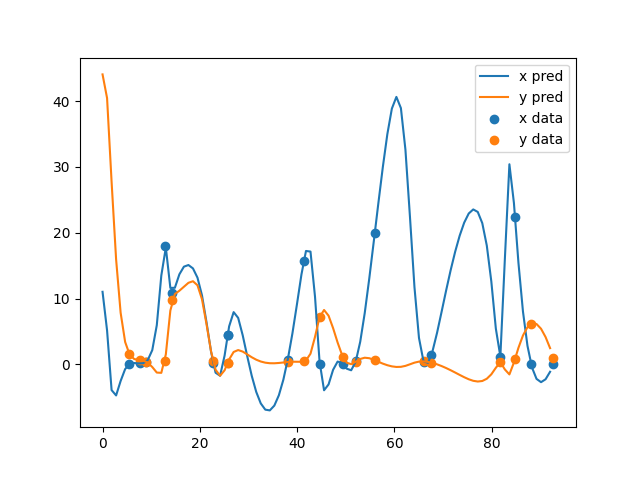
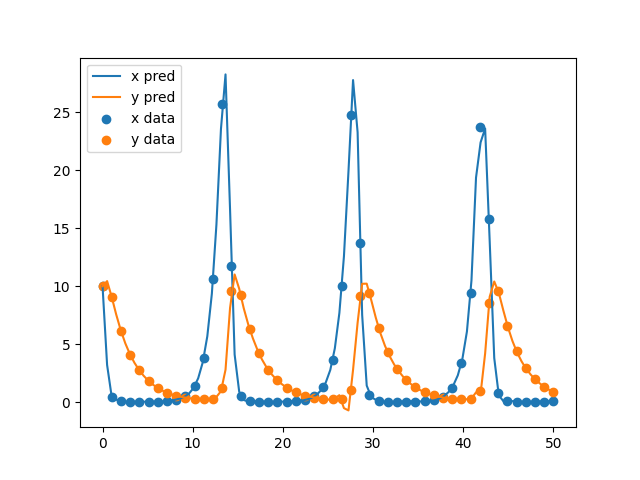
Added new prediction

diff --git a/pred_prey/no_pinn.py b/pred_prey/no_pinn.py
@@ -107,9 +107,12 @@ class predprey_pinn:
         def normalize(id, unnormed, mins, maxes):
             return (unnormed - mins[id])/(maxes[id]-mins[id])
         
+        def un_normalize(id, normed, mins, maxes):
+            return normed*(maxes[id] - mins[id])+ mins[id]
+        
         t_dat = torch.tensor(data[0], dtype=torch.float).reshape(-1,1)
         x_dat = torch.tensor(data[1],dtype=torch.float)
-        y_dat = torch.tensor(data[2], dtype=torch.float )
+        y_dat = torch.tensor(data[2], dtype=torch.float)
         
         maxes = {}
         mins = {}
@@ -120,9 +123,22 @@ class predprey_pinn:
         y_norm = normalize(1, y_dat, mins, maxes) 
         
         # Infer the model
-        x,y = torch.unbind(self.model(t_dat), dim = 1) 
+        x,y = torch.unbind(self.model(t_dat), dim = 1)
+        
         z1 = torch.mean((x - x_norm)**2)
         z2 = torch.mean((y- y_norm)**2)
+        
+        # Plot the predictions
+        x = un_normalize(0,x,mins, maxes)
+        y = un_normalize(1,y, mins, maxes)
+        plt.plot(t_dat.detach(), x.detach(), label = 'x pred')
+        plt.plot(t_dat.detach(), y.detach(), label = 'y pred')
+
+        plt.scatter(t_dat.detach(), x_dat, label = 'x data')
+        plt.scatter(t_dat.detach(), y_dat, label = 'y data' )
+        plt.legend()
+        plt.savefig("no_pinn_pred.png")
+        plt.close()
         return z1 + z2 
 
     def combined_loss(self):
@@ -185,13 +201,17 @@ if __name__ == "__main__":
         dy = delta*x*y - y*gamma
         return [dx, dy]
 
-    t = np.linspace(0,100,1000)
+    t = np.linspace(0,50,50)
+    t2 = np.linspace(0,100,200)
     sol = odeint(pp_ode,y0 =[10,10], t=t)
+    sol2 = odeint(pp_ode, y0=[10,10], t=t2)
 
     # plt.plot(t, sol[:,0])
     # plt.plot(t, sol[:,1])
 
     inp_dat = np.array([t, sol[:,0], sol[:,1]])
+    inp_dat2 = np.array([t2, sol2[:,0], sol2[:,1]]) 
+    
     
     # test_inst = predprey_pinn(epochs=10, data= inp_dat, c0 =[10,5])
     # inp_dat.shape
@@ -201,16 +221,16 @@ if __name__ == "__main__":
     # test_inst.adam_train()
     # test_inst.adam_train()
     
-    np.random.seed(0)
+    np.random.seed(1)
     ids = np.random.choice(range(inp_dat.shape[1]), size = 20)
     sample_data = inp_dat[:,ids]
     print(sample_data)
     print(sample_data.shape)
-    test_inst2 = predprey_pinn(epochs=10, data = sample_data, c0 =[10,10])
-    # test_inst2 = predprey_pinn(epochs=10, data = inp_dat, c0 =[10,10])
+    # test_inst2 = predprey_pinn(epochs=10, data = sample_data, c0 =[10,10])
+    test_inst2 = predprey_pinn(epochs=10, data = inp_dat, c0 =[10,10])
     for i in range(100):
         test_inst2.adam_train()
         # Compute the mean square error with respect to the reference points
-        mse = test_inst2.data_loss_more_points(data=inp_dat)
+        mse = test_inst2.data_loss_more_points(data=inp_dat2)
         # mse = test_inst2.data_loss()
         print("Mean square error: ", mse)

diff --git a/pred_prey/pinn.py b/pred_prey/pinn.py
@@ -107,6 +107,9 @@ class predprey_pinn:
         def normalize(id, unnormed, mins, maxes):
             return (unnormed - mins[id])/(maxes[id]-mins[id])
         
+        def un_normalize(id, normed, mins, maxes):
+            return normed*(maxes[id] - mins[id])+ mins[id]
+        
         t_dat = torch.tensor(data[0], dtype=torch.float).reshape(-1,1)
         x_dat = torch.tensor(data[1],dtype=torch.float)
         y_dat = torch.tensor(data[2], dtype=torch.float )
@@ -123,6 +126,18 @@ class predprey_pinn:
         x,y = torch.unbind(self.model(t_dat), dim = 1) 
         z1 = torch.mean((x - x_norm)**2)
         z2 = torch.mean((y- y_norm)**2)
+        
+        # Plot the predictions
+        x = un_normalize(0,x, mins, maxes)
+        y = un_normalize(1,y, mins, maxes)
+        plt.plot(t_dat.detach(), x.detach(), label = 'x pred')
+        plt.plot(t_dat.detach(), y.detach(), label = 'y pred')
+
+        plt.scatter(t_dat.detach(), x_dat, label = 'x data')
+        plt.scatter(t_dat.detach(), y_dat, label = 'y data' )
+        plt.legend()
+        plt.savefig("pinn_pred.png")
+        plt.close()
         return z1 + z2 
 
     def combined_loss(self):
@@ -186,29 +201,32 @@ if __name__ == "__main__":
         dy = delta*x*y - y*gamma
         return [dx, dy]
 
-    t = np.linspace(0,100,1000)
+    t = np.linspace(0,50,50)
+    t2 = np.linspace(0,100,200)
     sol = odeint(pp_ode,y0 =[10,10], t=t)
+    sol2 = odeint(pp_ode, y0=[10,10], t=t2)
 
     # plt.plot(t, sol[:,0])
     # plt.plot(t, sol[:,1])
 
     inp_dat = np.array([t, sol[:,0], sol[:,1]])
+    inp_dat2 = np.array([t2, sol2[:,0], sol2[:,1]]) 
     
     # test_inst = predprey_pinn(epochs=10, data= inp_dat, c0 =[10,5])
     # print(inp_dat.shape)
     # test_inst.adam_train()
     # test_inst.adam_train()
     
-    np.random.seed(0)
+    np.random.seed(1)
     ids = np.random.choice(range(inp_dat.shape[1]), size = 20)
     sample_data = inp_dat[:,ids]
     print(sample_data)
     print(sample_data.shape)
-    test_inst2 = predprey_pinn(epochs=10, data = sample_data, c0 =[10,10])
-    # test_inst2 = predprey_pinn(epochs=10, data = inp_dat, c0 =[10,5])
+    # test_inst2 = predprey_pinn(epochs=10, data = sample_data, c0 =[10,10])
+    test_inst2 = predprey_pinn(epochs=10, data = inp_dat, c0 =[10,10])
     for i in range(100):
         test_inst2.adam_train()
         # Compute the mean square error with respect to the reference points
-        mse = test_inst2.data_loss_more_points(data=inp_dat)
+        mse = test_inst2.data_loss_more_points(data=inp_dat2)
         # mse = test_inst2.data_loss()
         print("Mean square error: ", mse)
